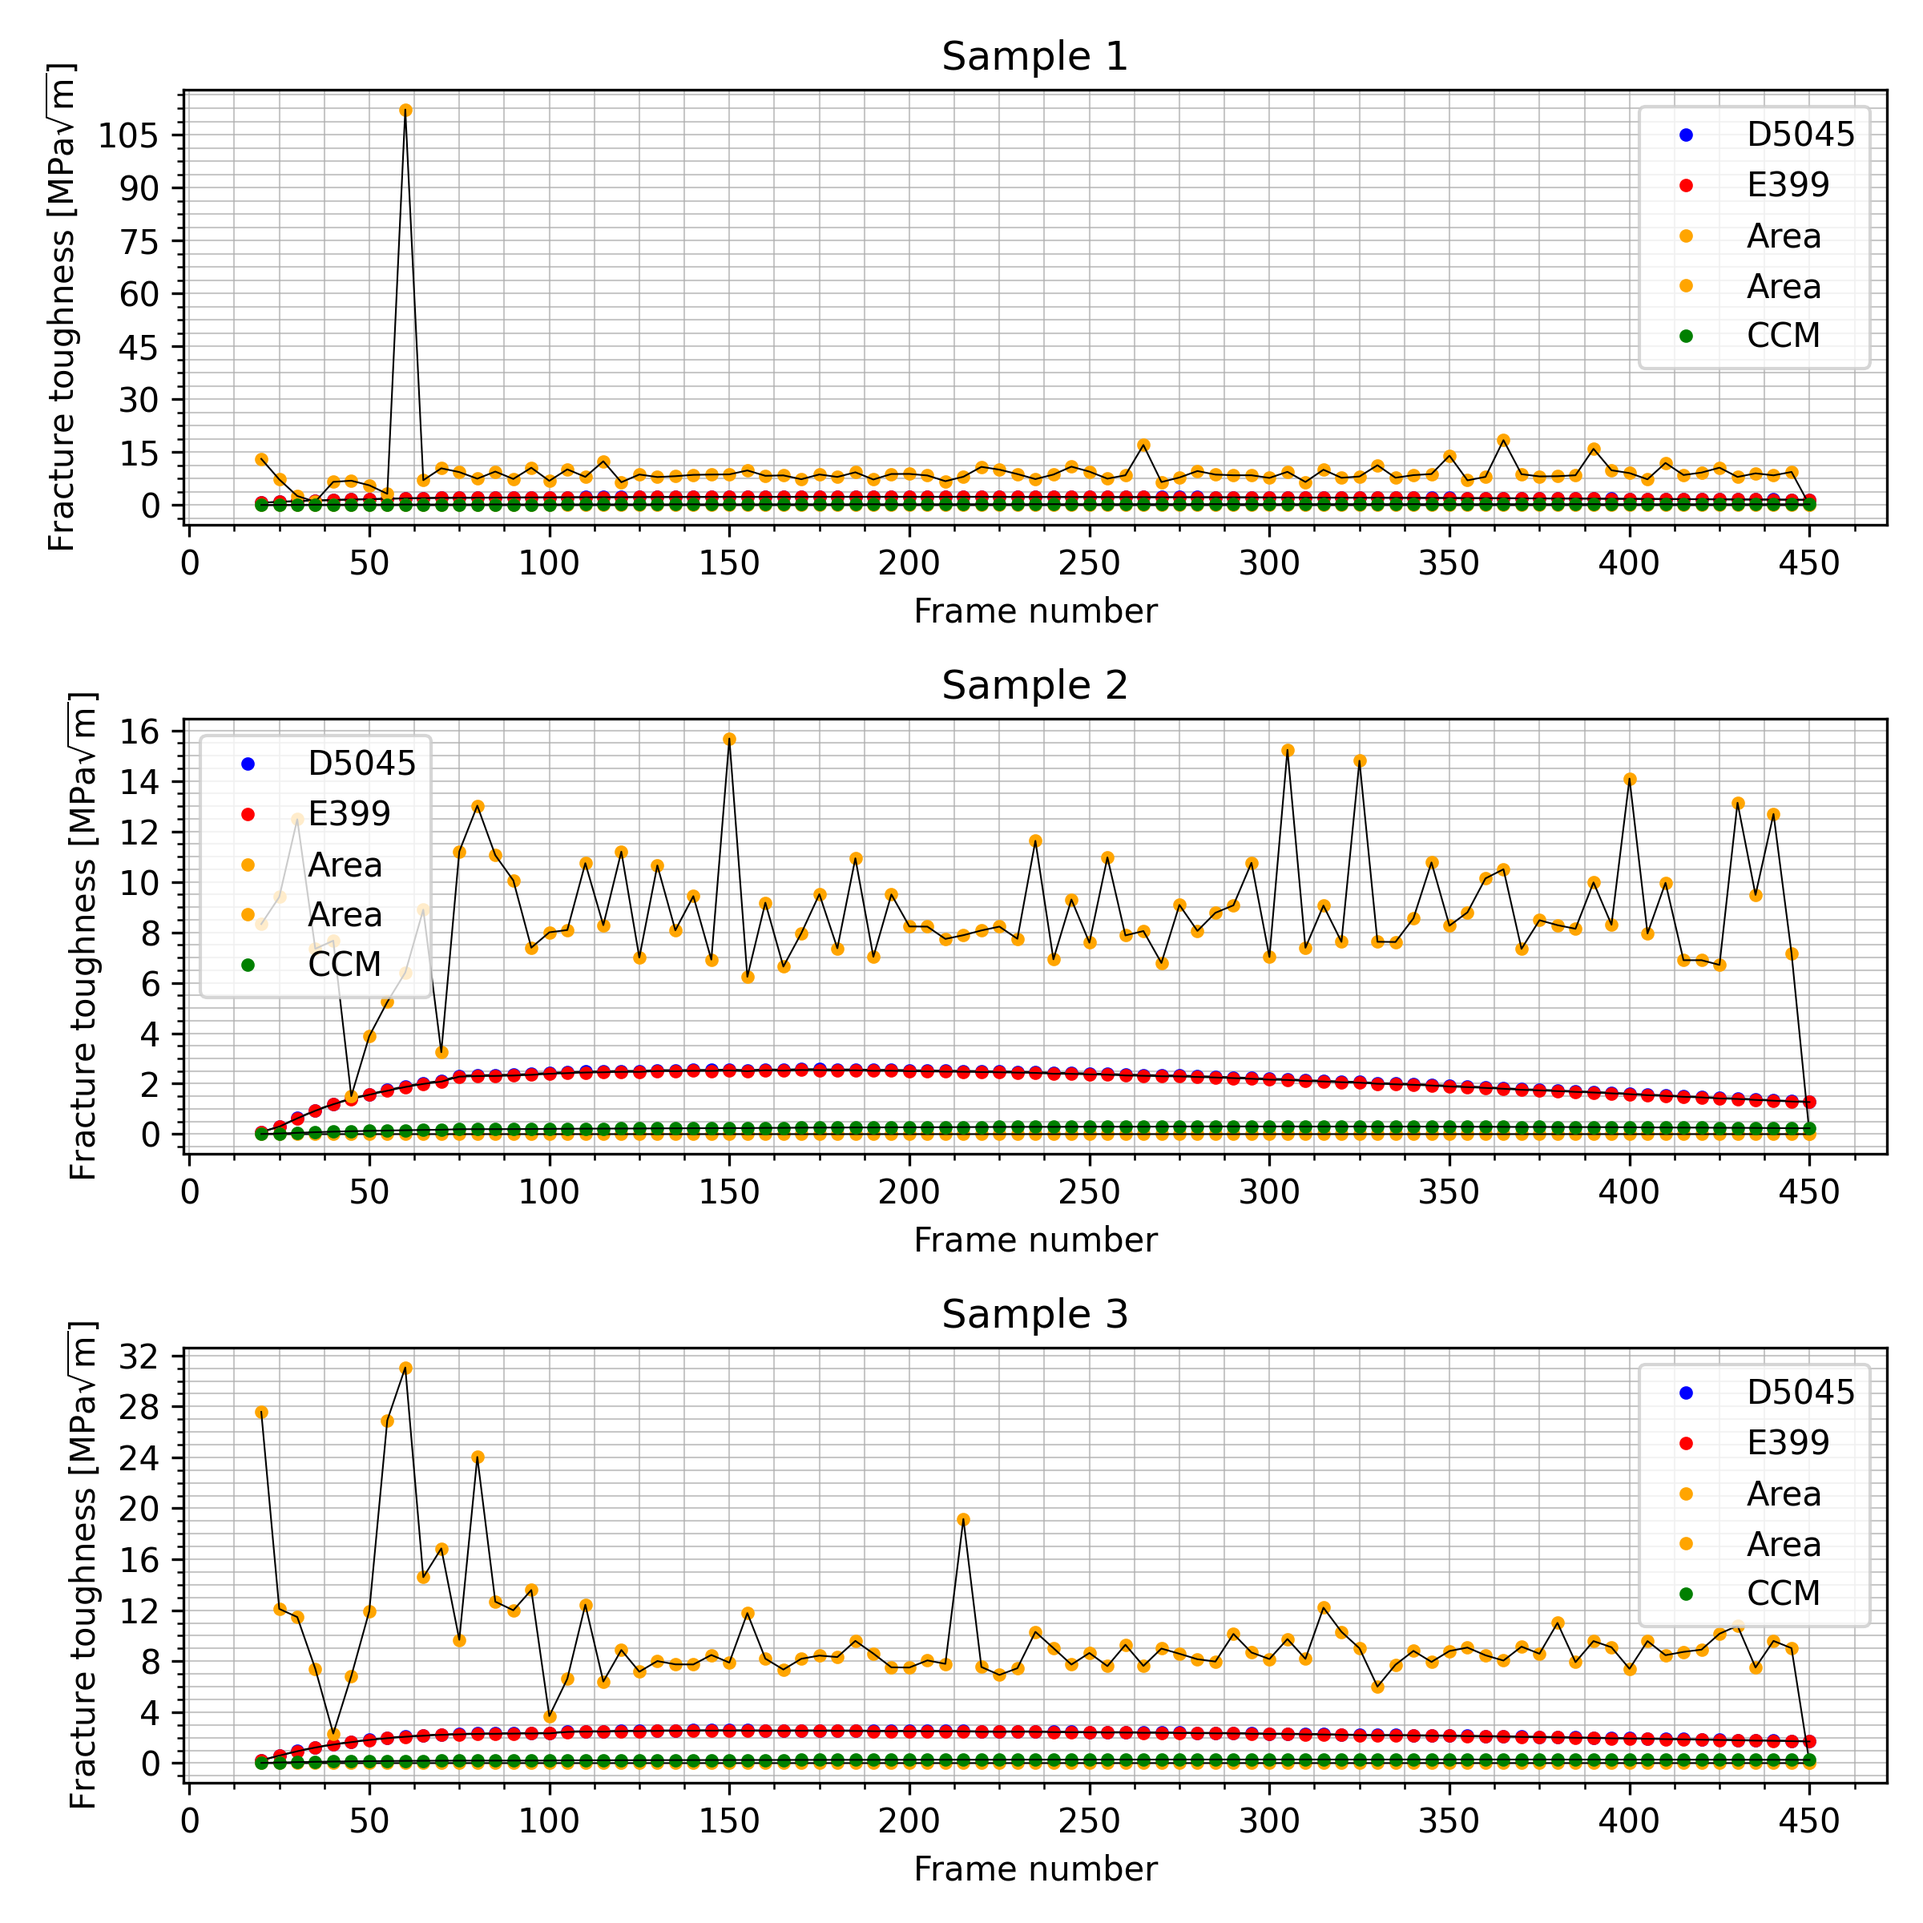
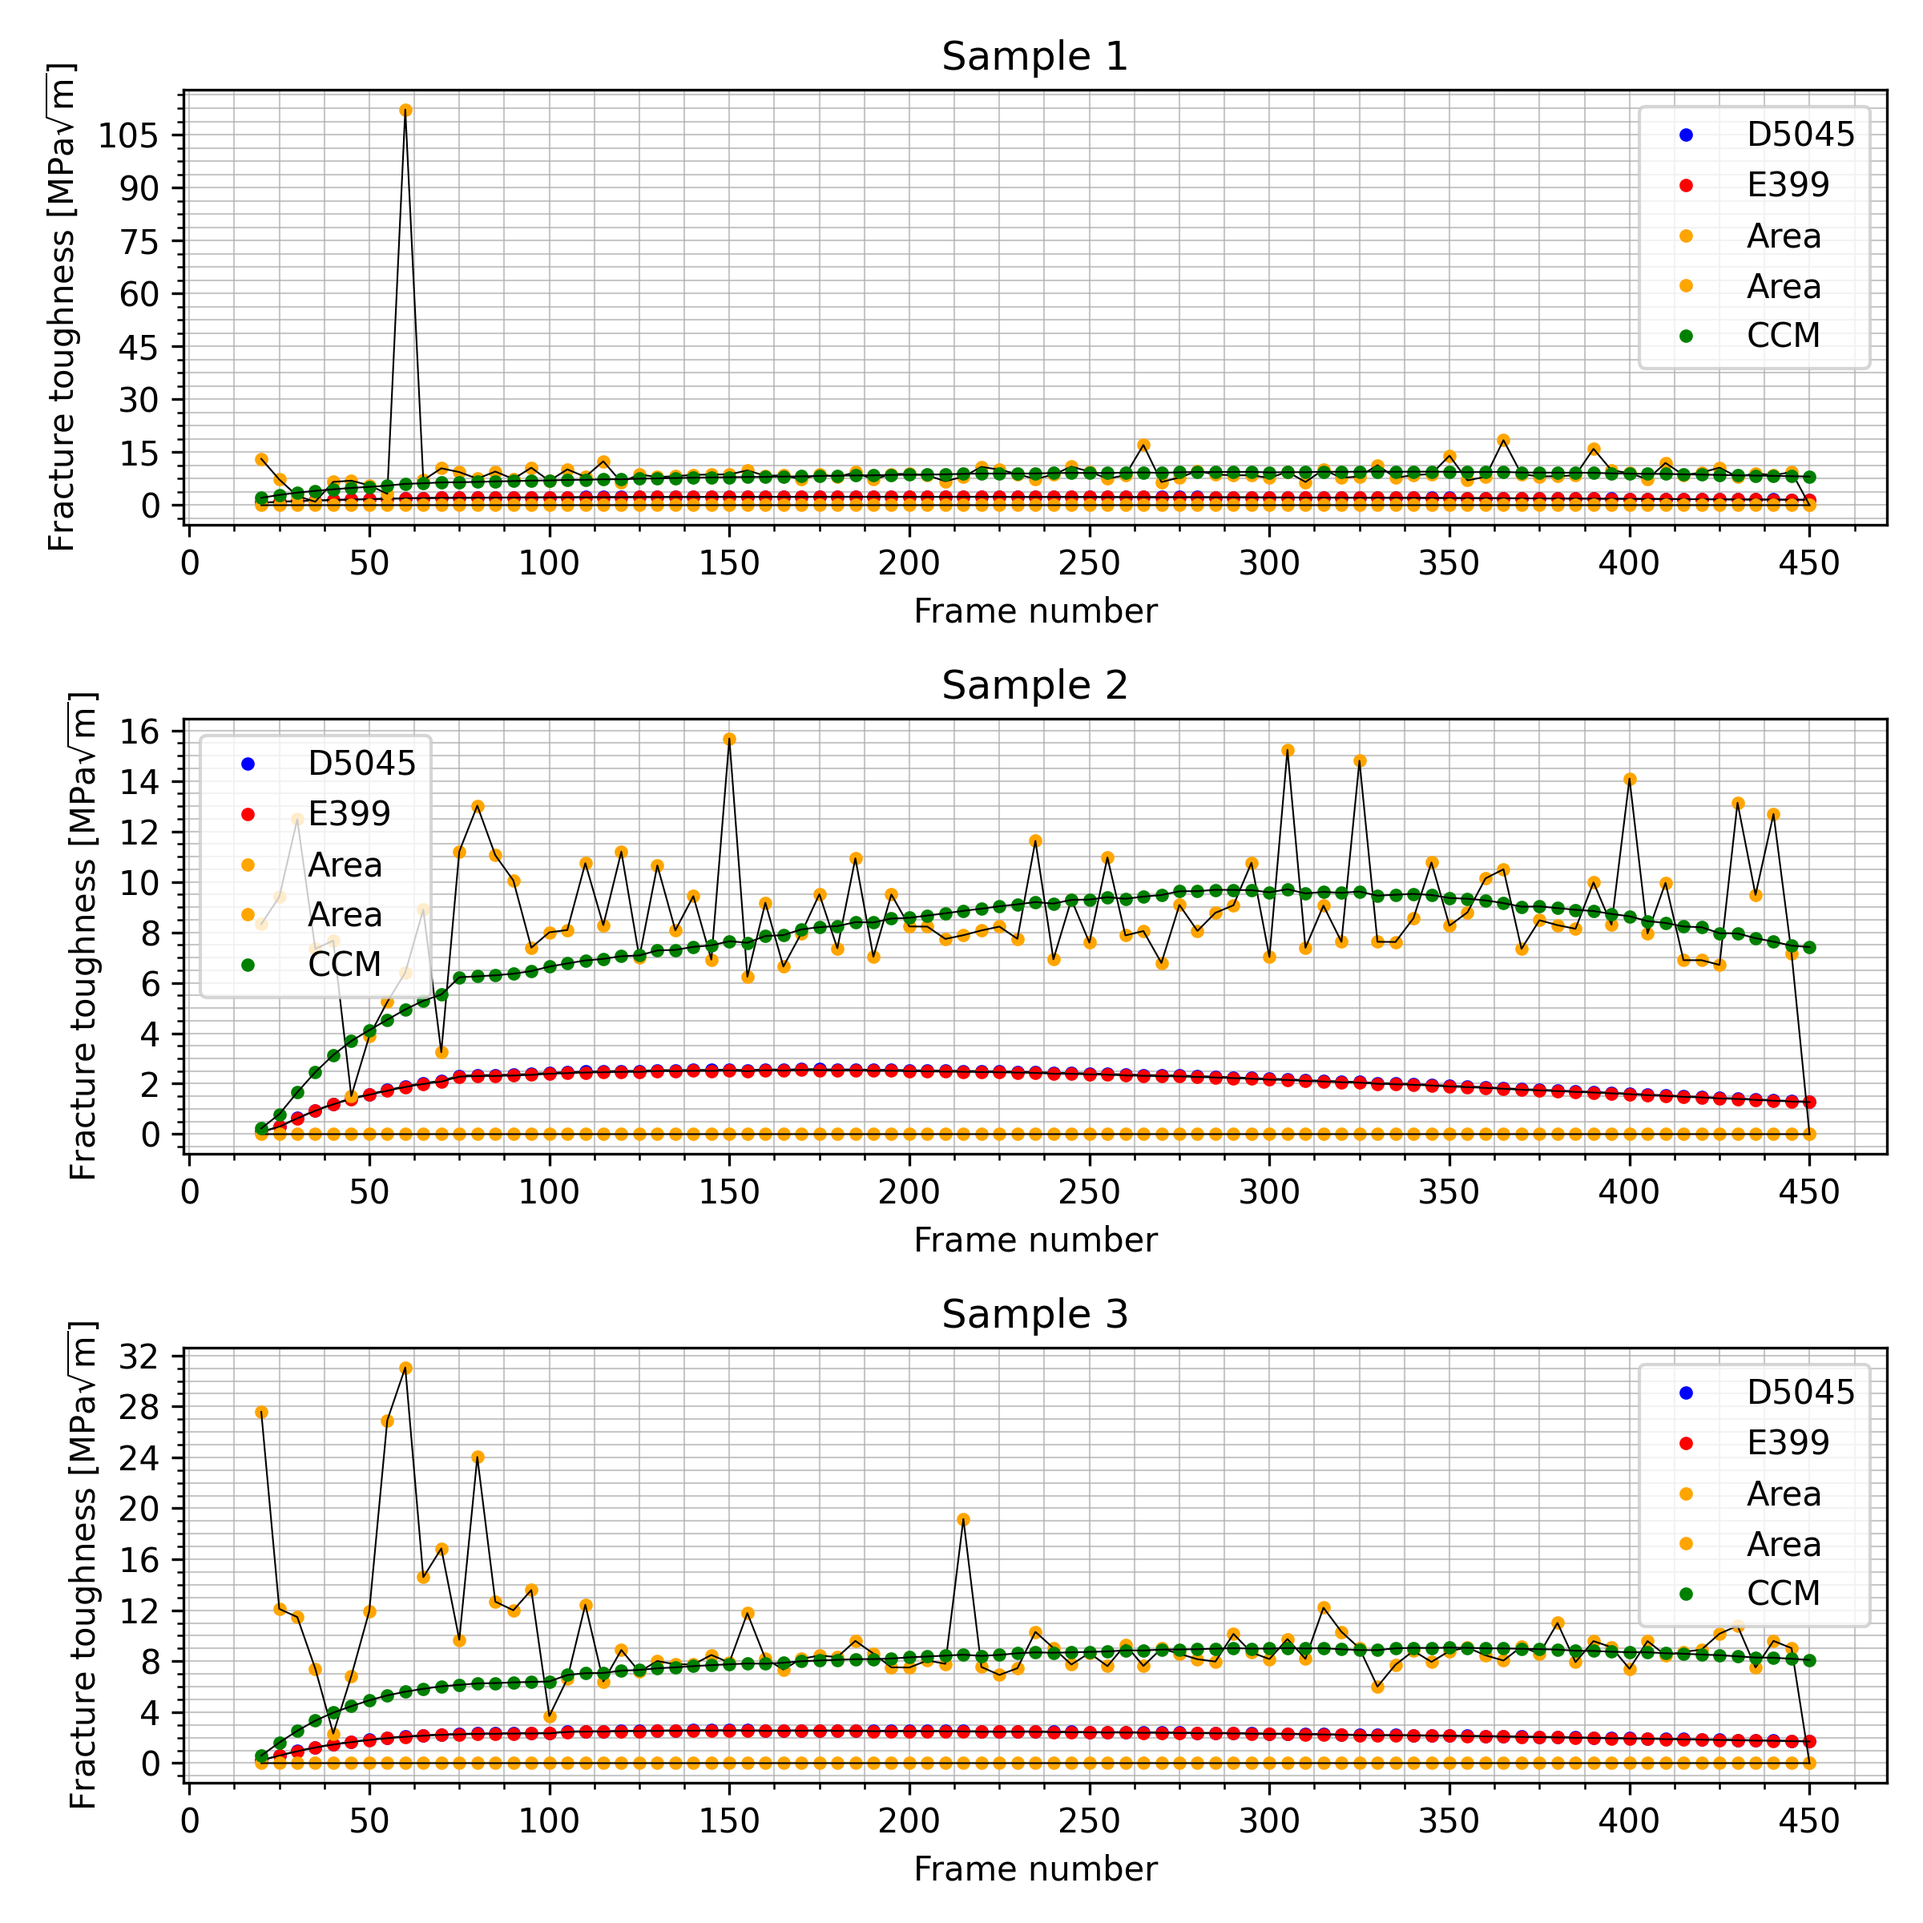
34e

diff --git a/main.py b/main.py
@@ -38,7 +38,7 @@ def plot_including_area_method():
         method_d5045=d5045.fracture_toughnesses(sample_number)
         method_e399=e399.fracture_toughnesses(sample_number)
         method_area=area.fracture_toughnesses(sample_number)
-        method_ccm=ccm.fracture_toughnesses(sample_number)
+        method_ccm=ccm.fracture_toughnesses(sample_number)[0]
 
         ax = axs[sample_number - 1]  # Index starts from 0
     
@@ -320,10 +320,10 @@ def percentage():
 
 
 #plot_excluding_area_method()
-#plot_including_area_method()
+plot_including_area_method()
 #reduced_plot_including_area_method()
 #average_excluding_area_method()
-averages()
+#averages()
 # absolute_differences()
 #percentage()
 #averages()
